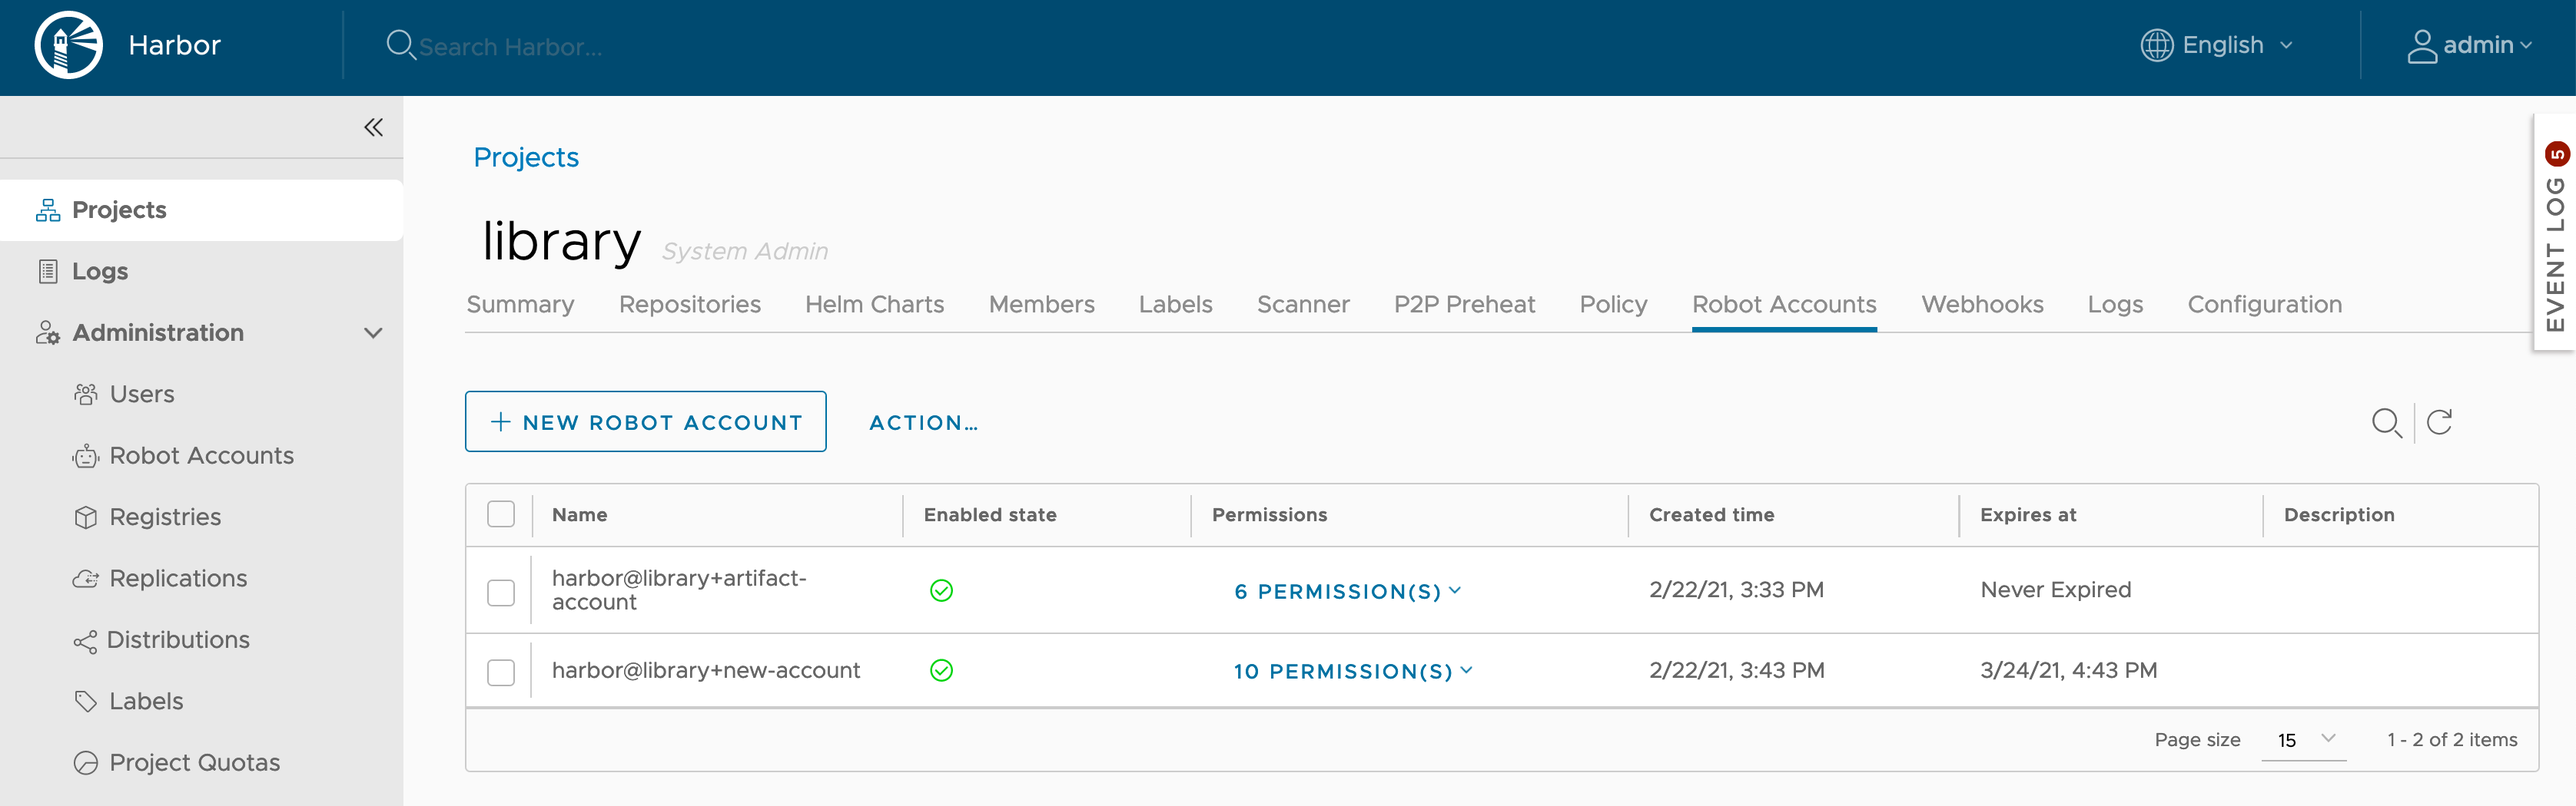
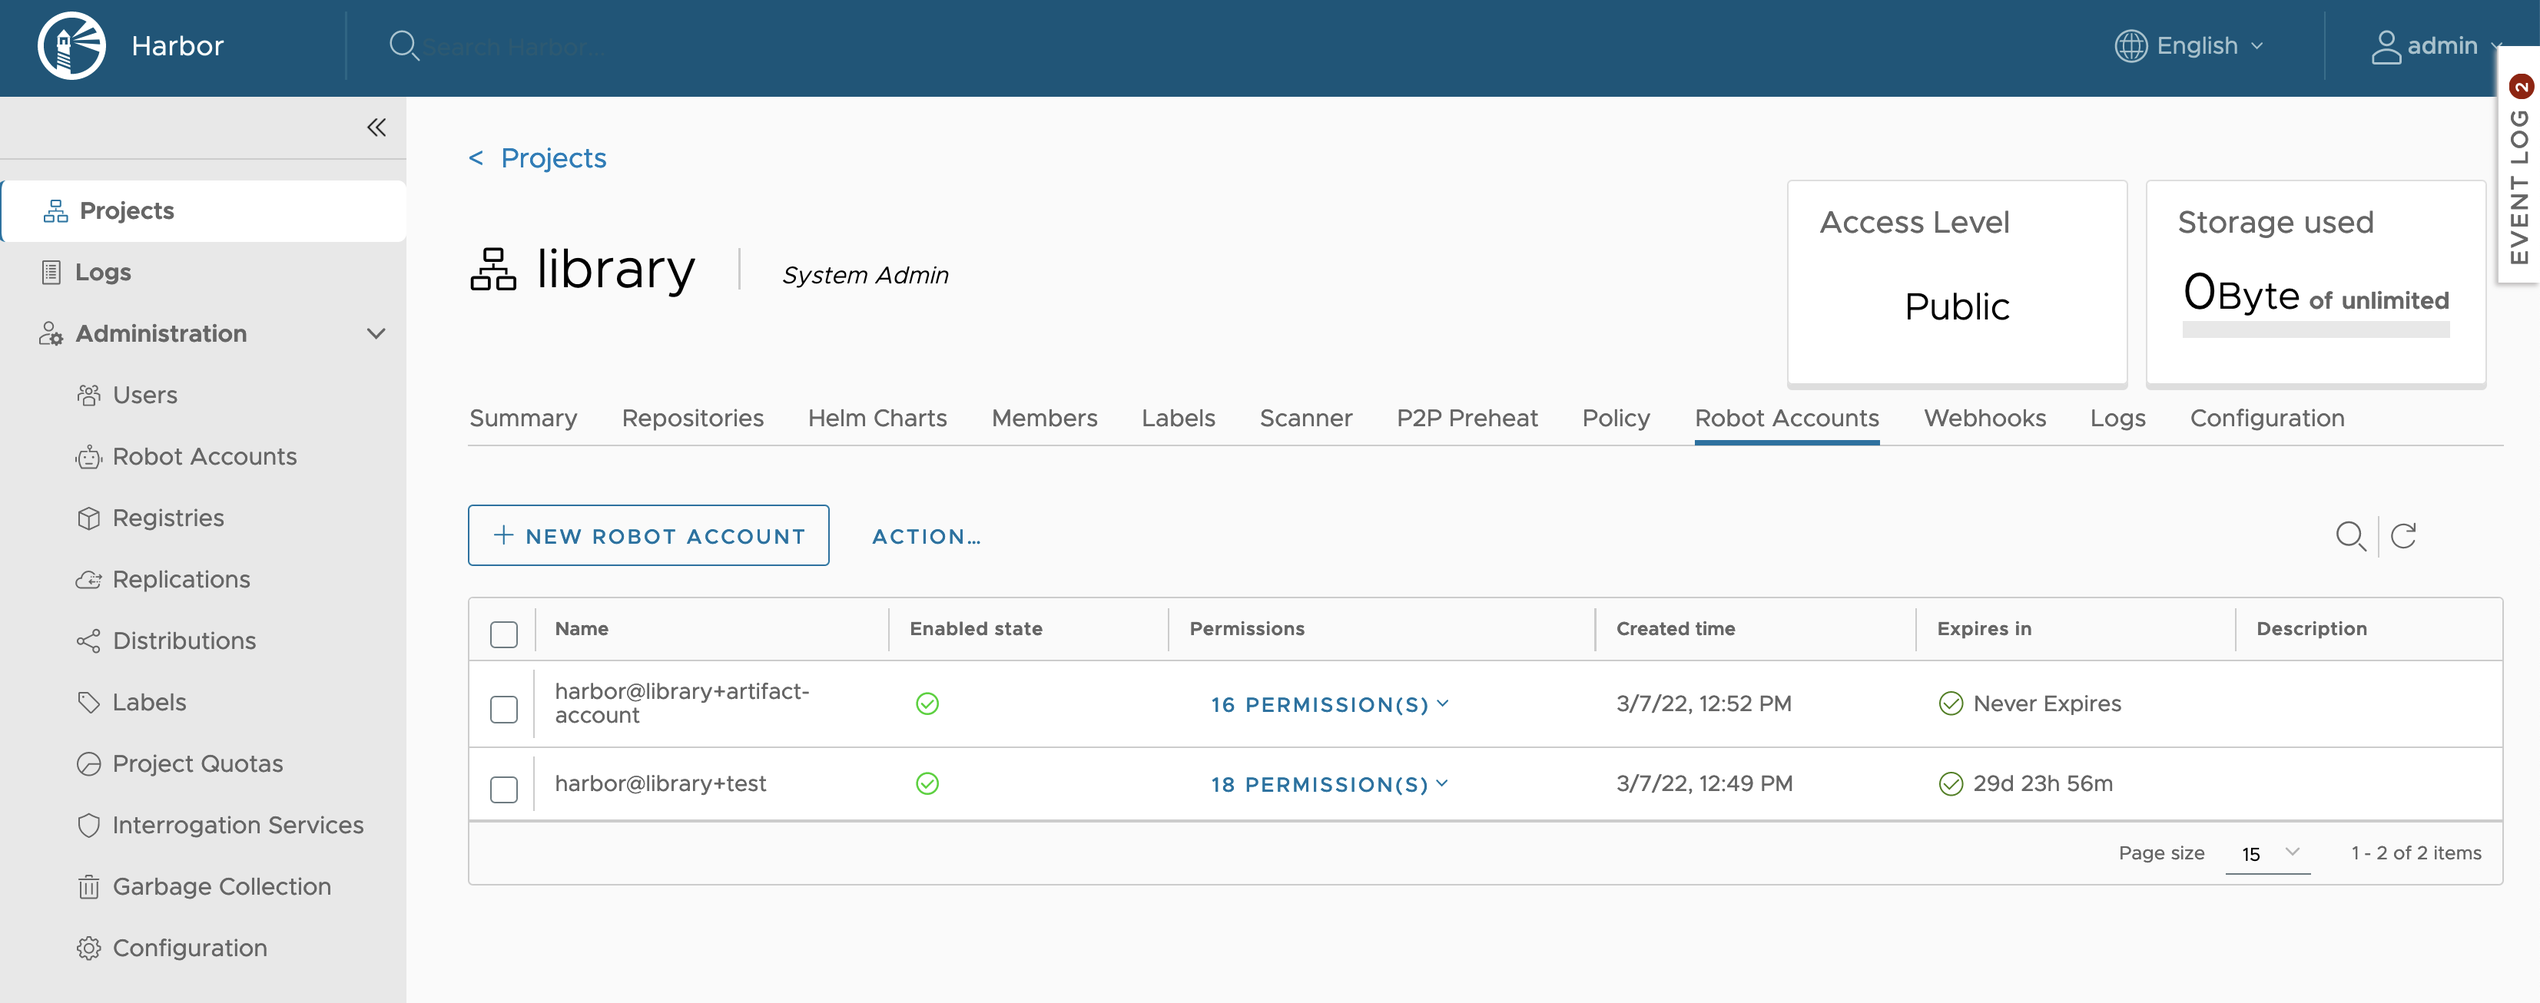
Update screenshots for 2.5 robot account changes

diff --git a/docs/working-with-projects/project-configuration/create-robot-accounts.md b/docs/working-with-projects/project-configuration/create-robot-accounts.md
@@ -40,7 +40,7 @@ This page lists all available project robot accounts for a project. The table li
 ![View a project robot account permissions](../../../img/permissions-link.png)
 
 * The created time shows when the robot account was created.
-* The expires at time of the project account which is calculated based on the created time and the expiration time set when creating the project robot account.
+* The time until the project robot account expires. This is calculated based on the created time and the expiration time set when creating the project robot account.
 * The description of the project robot account.
 
 You are only able to see project robot accounts from this page. Harbor administrators can also see system robot account information on the [System Robot Account](../../administration/robot-accounts/) page.

diff --git a/docs/administration/robot-accounts/_index.md b/docs/administration/robot-accounts/_index.md
@@ -38,7 +38,7 @@ This page lists all available system robot accounts for your Harbor instance. Th
     ![View list of all projects associated with a system robot account](../../img/list-robot-account-projects.png)
 
 * The created time shows when the robot account was created.
-* The expires at time of the account which is calculated based on the created time and the expiration time set when creating the project robot account.
+* The time until the account expires. Calculated based on the created time and the expiration time set when creating the robot account.
 * The description of the system robot account.
 
 
